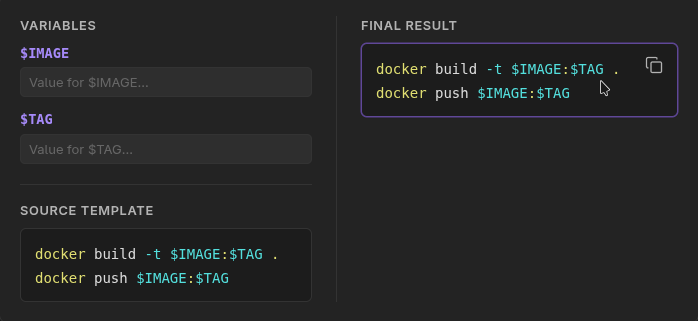
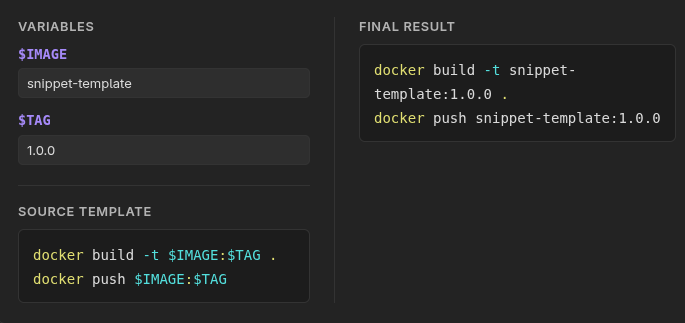
docs: fix formatting

diff --git a/README.md b/README.md
@@ -4,6 +4,7 @@
 
 ![Snippet Templater Preview](assets/preview.png)
 
+
 ## ✨ Key Features
 
 |   |   |
@@ -44,7 +45,7 @@ docker push $IMAGE:$TAG
 ### 2. Python Scripting
 
 ````
-```script-template lang: python
+```script-template lang:python
 import pandas as pd
 
 df = pd.read_csv("${INPUT_FILE}")
@@ -93,9 +94,9 @@ By default, language highlighting falls back to `bash`. You can specify a custom
 
 The parser recognizes variables following standard naming conventions (`[A-Za-z_][A-Za-z0-9_]*`):
 
-- Simple format: `$VARIABLE_NAME`
+- **Simple format**: `$VARIABLE_NAME`
     
-- Braced format: `${VARIABLE_NAME}`
+- **Braced format**: `${VARIABLE_NAME}`
     
 
 ## ⚙ Installation
@@ -117,7 +118,7 @@ The parser recognizes variables following standard naming conventions (`[A-Za-z_
 
 ### Option B: Community Plugins _(Coming Soon)_
 
-Once approved in the official Obsidian Community Catalog, search for `Snippet Templater` directly inside Obsidian's settings.
+Once approved in the official Obsidian Community Catalog, search for `Snippet Templater` directly inside Obsidian's settings (**Settings → Community plugins**).
 
 ## 🛠 Development
 
